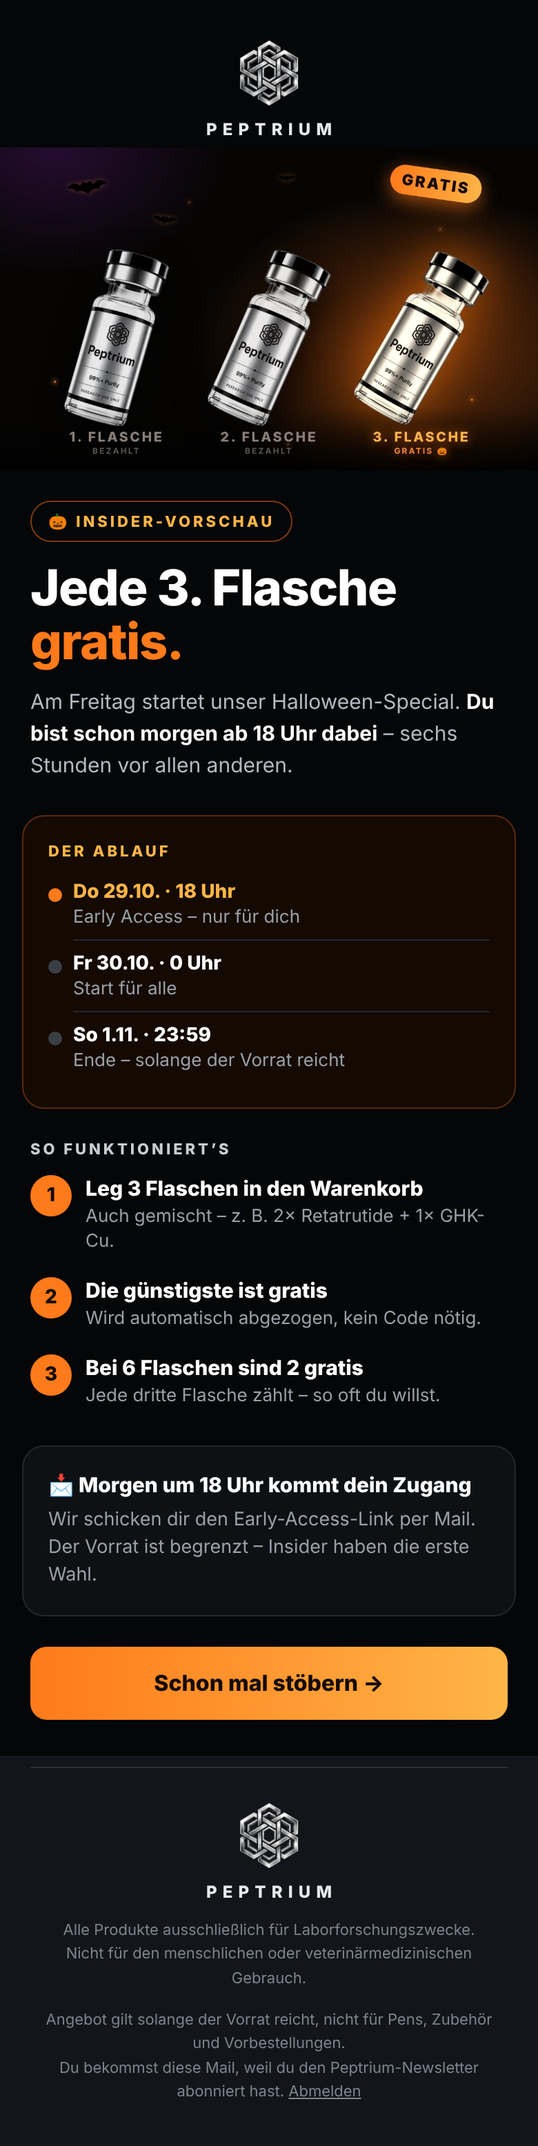
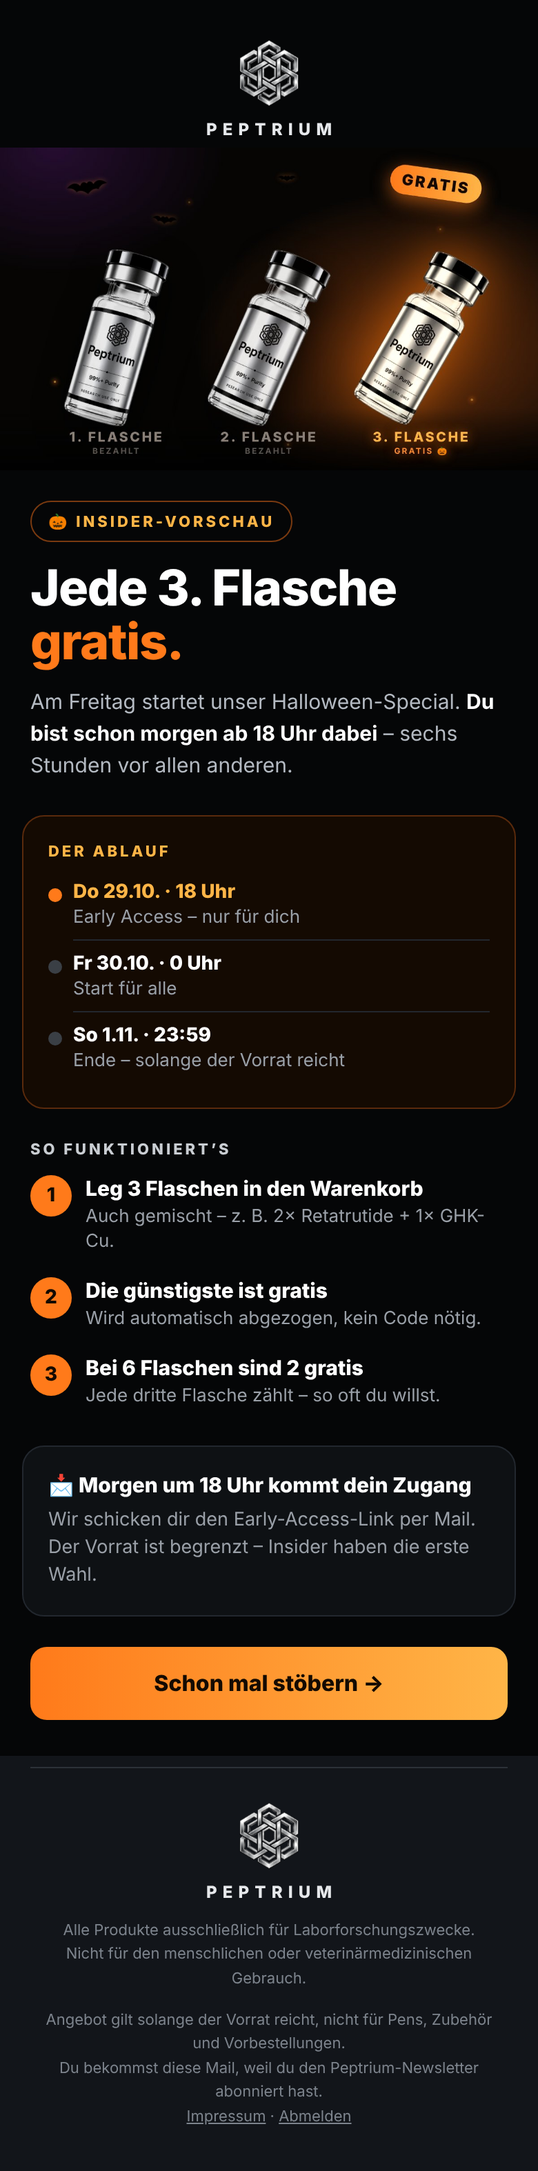
Halloween-Mails v2: keine Streichpreise, Heute 23:59, Vorkasse-Hinweis, Impressum, Betreffzeilen
Claude-Session: https://claude.ai/code/session_011YY7DBkbr5BcFGKyLoSbVN

Changed region(s): [[0.0615, 0.0935, 0.9538, 0.9974], [0.6462, 0.0623, 0.9231, 0.2182], [0.4308, 0.0, 0.5538, 0.0623]]

diff --git a/drafts/halloween-2026-10-22/mails/vorschau-letzte.html b/drafts/halloween-2026-10-22/mails/vorschau-letzte.html
@@ -1,1 +1,1 @@
-<!doctype html><html lang="de"><head><meta charset="utf-8"><meta name="viewport" content="width=device-width,initial-scale=1"></head><body style="margin:0;background:#050607;"><table role="presentation" width="100%" cellpadding="0" cellspacing="0" style="background:#050607;"><tr><td align="center" style="padding:0;"><table role="presentation" width="100%" cellpadding="0" cellspacing="0" style="max-width:600px;background:#050607;"><tr><td style="padding:26px 20px 6px;background:#050607;text-align:center;font-family:-apple-system,BlinkMacSystemFont,'Segoe UI',Inter,Helvetica,Arial,sans-serif;"><img src="https://peptrium.com/wp-content/uploads/2026/08/IMG_2644-cropped-300x300.png" width="54" height="54" alt="Peptrium" style="display:block;margin:0 auto;width:54px;height:54px;border:0;"><div style="font-size:12px;font-weight:800;letter-spacing:.34em;padding-left:.34em;color:#E6E8EB;margin-top:6px;">PEPTRIUM</div></td></tr><tr><td style="padding:0;line-height:0;background:#050607;"><a href="https://peptrium.com/alle-produkte/?utm_source=newsletter&utm_medium=email&utm_campaign=halloween-letzte" style="display:block;line-height:0;"><img src="nl-hw-hero.jpg" width="600" alt="Halloween bei Peptrium" style="display:block;width:100%;max-width:600px;height:auto;border:0;"></a></td></tr><tr><td style="padding:22px 22px 6px;background:#050607;text-align:left;font-family:-apple-system,BlinkMacSystemFont,'Segoe UI',Inter,Helvetica,Arial,sans-serif;"><span style="display:inline-block;font-size:11px;font-weight:800;letter-spacing:.18em;color:#FFB547;border:1px solid #7A3A10;border-radius:99px;padding:7px 12px;">🎃 LETZTE CHANCE</span><div style="font-size:36px;line-height:1.08;font-weight:800;color:#FFFFFF;letter-spacing:-.02em;margin-top:14px;">Nur noch bis<br><span style="color:#FF7A1A;">Sonntag, 23:59.</span></div><div style="font-size:15px;line-height:1.55;color:#B4BAC2;margin-top:12px;">Danach ist das Halloween-Special vorbei – und jede Flasche kostet wieder den normalen Preis.</div></td></tr><tr><td style="padding:18px 16px 4px;background:#050607;text-align:left;font-family:-apple-system,BlinkMacSystemFont,'Segoe UI',Inter,Helvetica,Arial,sans-serif;"><div style="background:#140A02;border:1px solid #5A2A0C;border-radius:16px;padding:18px 18px;"><table role="presentation" width="100%" cellpadding="0" cellspacing="0"><tr><td style="font-family:-apple-system,BlinkMacSystemFont,'Segoe UI',Inter,Helvetica,Arial,sans-serif;text-align:center;padding:4px 0;"><div style="font-size:11px;font-weight:800;letter-spacing:.18em;color:#FFB547;">ENDET IN</div><div style="font-size:40px;font-weight:800;color:#fff;margin-top:6px;letter-spacing:-.02em;">ca. 1 Tag</div><div style="font-size:13px;color:#9AA0A8;margin-top:4px;">So 1.11. um 23:59 Uhr · solange der Vorrat reicht</div></td></tr></table></div></td></tr><tr><td style="padding:18px 22px 6px;background:#050607;text-align:left;font-family:-apple-system,BlinkMacSystemFont,'Segoe UI',Inter,Helvetica,Arial,sans-serif;"><a href="https://peptrium.com/alle-produkte/?utm_source=newsletter&utm_medium=email&utm_campaign=halloween-letzte" style="display:block;background:#FF7A1A;background-image:linear-gradient(90deg,#FF7A1A,#FFB547);color:#140A02;text-align:center;text-decoration:none;font-weight:800;font-size:16px;line-height:1.2;padding:17px 12px;border-radius:12px;font-family:-apple-system,BlinkMacSystemFont,'Segoe UI',Inter,Helvetica,Arial,sans-serif;">Jetzt Flaschen wählen &rarr;</a></td></tr><tr><td style="padding:18px 16px 4px;background:#050607;text-align:left;font-family:-apple-system,BlinkMacSystemFont,'Segoe UI',Inter,Helvetica,Arial,sans-serif;"><div style="font-size:11px;font-weight:800;letter-spacing:.18em;color:#C9CDD2;margin-bottom:6px;">DIE BELIEBTESTEN</div><table role="presentation" width="100%" cellpadding="0" cellspacing="0"><tr><td style="padding:6px 0;"><table role="presentation" width="100%" cellpadding="0" cellspacing="0" style="border-collapse:separate;background:#0E1114;border:1px solid #22272E;border-radius:14px;overflow:hidden;"><tr><td width="92" style="width:92px;padding:0;line-height:0;"><a href="https://peptrium.com/produkt/retatrutide/?attribute_volumen=10mg&utm_source=newsletter&utm_medium=email&utm_campaign=halloween-letzte"><img src="https://peptrium.com/wp-content/uploads/sp-email/nl-p-reta.jpg" width="92" alt="" style="display:block;width:92px;height:92px;border:0;"></a></td><td style="padding:10px 12px;font-family:-apple-system,BlinkMacSystemFont,'Segoe UI',Inter,Helvetica,Arial,sans-serif;"><div style="font-size:15px;font-weight:800;color:#fff;">Retatrutide 10 mg</div><div style="font-size:13px;color:#9AA0A8;margin-top:3px;">3 Flaschen: <s style="white-space:nowrap;">224,70 €</s> <b style="color:#FFB547;font-size:15px;white-space:nowrap;">149,80 €</b></div></td><td width="44" style="width:44px;padding-right:12px;"><a href="https://peptrium.com/produkt/retatrutide/?attribute_volumen=10mg&utm_source=newsletter&utm_medium=email&utm_campaign=halloween-letzte" style="display:block;width:36px;height:36px;line-height:36px;border-radius:50%;background:#fff;color:#0D0F12;text-align:center;font-weight:800;text-decoration:none;font-size:18px;">&rarr;</a></td></tr></table></td></tr><tr><td style="padding:6px 0;"><table role="presentation" width="100%" cellpadding="0" cellspacing="0" style="border-collapse:separate;background:#0E1114;border:1px solid #22272E;border-radius:14px;overflow:hidden;"><tr><td width="92" style="width:92px;padding:0;line-height:0;"><a href="https://peptrium.com/produkt/retatrutide/?attribute_volumen=20mg&utm_source=newsletter&utm_medium=email&utm_campaign=halloween-letzte"><img src="https://peptrium.com/wp-content/uploads/sp-email/nl-p-reta20.jpg" width="92" alt="" style="display:block;width:92px;height:92px;border:0;"></a></td><td style="padding:10px 12px;font-family:-apple-system,BlinkMacSystemFont,'Segoe UI',Inter,Helvetica,Arial,sans-serif;"><div style="font-size:15px;font-weight:800;color:#fff;">Retatrutide 20 mg</div><div style="font-size:13px;color:#9AA0A8;margin-top:3px;">3 Flaschen: <s style="white-space:nowrap;">434,70 €</s> <b style="color:#FFB547;font-size:15px;white-space:nowrap;">289,80 €</b></div></td><td width="44" style="width:44px;padding-right:12px;"><a href="https://peptrium.com/produkt/retatrutide/?attribute_volumen=20mg&utm_source=newsletter&utm_medium=email&utm_campaign=halloween-letzte" style="display:block;width:36px;height:36px;line-height:36px;border-radius:50%;background:#fff;color:#0D0F12;text-align:center;font-weight:800;text-decoration:none;font-size:18px;">&rarr;</a></td></tr></table></td></tr><tr><td style="padding:6px 0;"><table role="presentation" width="100%" cellpadding="0" cellspacing="0" style="border-collapse:separate;background:#0E1114;border:1px solid #22272E;border-radius:14px;overflow:hidden;"><tr><td width="92" style="width:92px;padding:0;line-height:0;"><a href="https://peptrium.com/produkt/ghk-cu/?attribute_volumen=100mg&utm_source=newsletter&utm_medium=email&utm_campaign=halloween-letzte"><img src="https://peptrium.com/wp-content/uploads/sp-email/nl-p-ghk100.jpg" width="92" alt="" style="display:block;width:92px;height:92px;border:0;"></a></td><td style="padding:10px 12px;font-family:-apple-system,BlinkMacSystemFont,'Segoe UI',Inter,Helvetica,Arial,sans-serif;"><div style="font-size:15px;font-weight:800;color:#fff;">GHK-Cu 100 mg</div><div style="font-size:13px;color:#9AA0A8;margin-top:3px;">3 Flaschen: <s style="white-space:nowrap;">224,70 €</s> <b style="color:#FFB547;font-size:15px;white-space:nowrap;">149,80 €</b></div></td><td width="44" style="width:44px;padding-right:12px;"><a href="https://peptrium.com/produkt/ghk-cu/?attribute_volumen=100mg&utm_source=newsletter&utm_medium=email&utm_campaign=halloween-letzte" style="display:block;width:36px;height:36px;line-height:36px;border-radius:50%;background:#fff;color:#0D0F12;text-align:center;font-weight:800;text-decoration:none;font-size:18px;">&rarr;</a></td></tr></table></td></tr></table></td></tr><tr><td style="padding:14px 22px 4px;background:#050607;text-align:left;font-family:-apple-system,BlinkMacSystemFont,'Segoe UI',Inter,Helvetica,Arial,sans-serif;"><div style="font-size:14px;color:#9AA0A8;line-height:1.55;">Jede 3. Flasche ist gratis – die günstigste im Warenkorb, auch gemischt. Kein Code nötig.</div></td></tr><tr><td style="padding:18px 22px 26px;background:#050607;text-align:left;font-family:-apple-system,BlinkMacSystemFont,'Segoe UI',Inter,Helvetica,Arial,sans-serif;"><a href="https://peptrium.com/alle-produkte/?utm_source=newsletter&utm_medium=email&utm_campaign=halloween-letzte" style="display:block;background:#FF7A1A;background-image:linear-gradient(90deg,#FF7A1A,#FFB547);color:#140A02;text-align:center;text-decoration:none;font-weight:800;font-size:16px;line-height:1.2;padding:17px 12px;border-radius:12px;font-family:-apple-system,BlinkMacSystemFont,'Segoe UI',Inter,Helvetica,Arial,sans-serif;">Zum Shop &rarr;</a></td></tr><tr><td style="padding:8px 22px 30px;background:#12151A;text-align:center;font-family:-apple-system,BlinkMacSystemFont,'Segoe UI',Inter,Helvetica,Arial,sans-serif;"><div style="height:1px;background:#2C3138;margin:0 0 22px;"></div><img src="https://peptrium.com/wp-content/uploads/2026/08/IMG_2644-cropped-300x300.png" width="54" height="54" alt="Peptrium" style="display:block;margin:0 auto;width:54px;height:54px;border:0;"><div style="font-size:12px;font-weight:800;letter-spacing:.34em;padding-left:.34em;color:#E6E8EB;margin-top:6px;">PEPTRIUM</div><div style="font-size:11px;color:#7D848D;margin-top:12px;line-height:1.6;">Alle Produkte ausschließlich für Laborforschungszwecke.<br>Nicht für den menschlichen oder veterinärmedizinischen Gebrauch.</div><div style="font-size:11px;color:#7D848D;margin-top:12px;line-height:1.6;">Angebot gilt solange der Vorrat reicht, nicht für Pens, Zubehör und Vorbestellungen.<br>Du bekommst diese Mail, weil du den Peptrium-Newsletter abonniert hast. <a href="#" style="color:#7D848D;">Abmelden</a></div></td></tr></table></td></tr></table></body></html>
+<!doctype html><html lang="de"><head><meta charset="utf-8"><meta name="viewport" content="width=device-width,initial-scale=1"></head><body style="margin:0;background:#050607;"><table role="presentation" width="100%" cellpadding="0" cellspacing="0" style="background:#050607;"><tr><td align="center" style="padding:0;"><table role="presentation" width="100%" cellpadding="0" cellspacing="0" style="max-width:600px;background:#050607;"><tr><td style="padding:26px 20px 6px;background:#050607;text-align:center;font-family:-apple-system,BlinkMacSystemFont,'Segoe UI',Inter,Helvetica,Arial,sans-serif;"><img src="https://peptrium.com/wp-content/uploads/2026/08/IMG_2644-cropped-300x300.png" width="54" height="54" alt="Peptrium" style="display:block;margin:0 auto;width:54px;height:54px;border:0;"><div style="font-size:12px;font-weight:800;letter-spacing:.34em;padding-left:.34em;color:#E6E8EB;margin-top:6px;">PEPTRIUM</div></td></tr><tr><td style="padding:0;line-height:0;background:#050607;"><a href="https://peptrium.com/alle-produkte/?utm_source=newsletter&utm_medium=email&utm_campaign=halloween-letzte" style="display:block;line-height:0;"><img src="nl-hw-hero.jpg" width="600" alt="Halloween bei Peptrium" style="display:block;width:100%;max-width:600px;height:auto;border:0;"></a></td></tr><tr><td style="padding:22px 22px 6px;background:#050607;text-align:left;font-family:-apple-system,BlinkMacSystemFont,'Segoe UI',Inter,Helvetica,Arial,sans-serif;"><span style="display:inline-block;font-size:11px;font-weight:800;letter-spacing:.18em;color:#FFB547;border:1px solid #7A3A10;border-radius:99px;padding:7px 12px;">🎃 LETZTE CHANCE</span><div style="font-size:36px;line-height:1.08;font-weight:800;color:#FFFFFF;letter-spacing:-.02em;margin-top:14px;">Heute um 23:59<br><span style="color:#FF7A1A;">ist Schluss.</span></div><div style="font-size:15px;line-height:1.55;color:#B4BAC2;margin-top:12px;">Danach ist das Halloween-Special vorbei – und jede Flasche kostet wieder den normalen Preis.</div></td></tr><tr><td style="padding:18px 16px 4px;background:#050607;text-align:left;font-family:-apple-system,BlinkMacSystemFont,'Segoe UI',Inter,Helvetica,Arial,sans-serif;"><div style="background:#140A02;border:1px solid #5A2A0C;border-radius:16px;padding:18px 18px;"><table role="presentation" width="100%" cellpadding="0" cellspacing="0"><tr><td style="font-family:-apple-system,BlinkMacSystemFont,'Segoe UI',Inter,Helvetica,Arial,sans-serif;text-align:center;padding:4px 0;"><div style="font-size:11px;font-weight:800;letter-spacing:.18em;color:#FFB547;">ENDET HEUTE</div><div style="font-size:40px;font-weight:800;color:#fff;margin-top:6px;letter-spacing:-.02em;">23:59 Uhr</div><div style="font-size:13px;color:#9AA0A8;margin-top:4px;">Sonntag, 1.11. · solange der Vorrat reicht</div></td></tr></table></div></td></tr><tr><td style="padding:18px 22px 6px;background:#050607;text-align:left;font-family:-apple-system,BlinkMacSystemFont,'Segoe UI',Inter,Helvetica,Arial,sans-serif;"><a href="https://peptrium.com/alle-produkte/?utm_source=newsletter&utm_medium=email&utm_campaign=halloween-letzte" style="display:block;background:#FF7A1A;background-image:linear-gradient(90deg,#FF7A1A,#FFB547);color:#140A02;text-align:center;text-decoration:none;font-weight:800;font-size:16px;line-height:1.2;padding:17px 12px;border-radius:12px;font-family:-apple-system,BlinkMacSystemFont,'Segoe UI',Inter,Helvetica,Arial,sans-serif;">Jetzt Flaschen wählen &rarr;</a></td></tr><tr><td style="padding:18px 16px 4px;background:#050607;text-align:left;font-family:-apple-system,BlinkMacSystemFont,'Segoe UI',Inter,Helvetica,Arial,sans-serif;"><div style="font-size:11px;font-weight:800;letter-spacing:.18em;color:#C9CDD2;margin-bottom:6px;">DIE BELIEBTESTEN</div><table role="presentation" width="100%" cellpadding="0" cellspacing="0"><tr><td style="padding:6px 0;"><table role="presentation" width="100%" cellpadding="0" cellspacing="0" style="border-collapse:separate;background:#0E1114;border:1px solid #22272E;border-radius:14px;overflow:hidden;"><tr><td width="92" style="width:92px;padding:0;line-height:0;"><a href="https://peptrium.com/produkt/retatrutide/?attribute_volumen=10mg&utm_source=newsletter&utm_medium=email&utm_campaign=halloween-letzte"><img src="https://peptrium.com/wp-content/uploads/sp-email/nl-p-reta.jpg" width="92" alt="" style="display:block;width:92px;height:92px;border:0;"></a></td><td style="padding:10px 12px;font-family:-apple-system,BlinkMacSystemFont,'Segoe UI',Inter,Helvetica,Arial,sans-serif;"><div style="font-size:15px;font-weight:800;color:#fff;">Retatrutide 10 mg</div><div style="font-size:13px;color:#9AA0A8;margin-top:3px;">3 Flaschen – du zahlst nur 2</div><div style="font-size:16px;font-weight:800;color:#FFB547;margin-top:2px;white-space:nowrap;">149,80 €</div></td><td width="44" style="width:44px;padding-right:12px;"><a href="https://peptrium.com/produkt/retatrutide/?attribute_volumen=10mg&utm_source=newsletter&utm_medium=email&utm_campaign=halloween-letzte" style="display:block;width:36px;height:36px;line-height:36px;border-radius:50%;background:#fff;color:#0D0F12;text-align:center;font-weight:800;text-decoration:none;font-size:18px;">&rarr;</a></td></tr></table></td></tr><tr><td style="padding:6px 0;"><table role="presentation" width="100%" cellpadding="0" cellspacing="0" style="border-collapse:separate;background:#0E1114;border:1px solid #22272E;border-radius:14px;overflow:hidden;"><tr><td width="92" style="width:92px;padding:0;line-height:0;"><a href="https://peptrium.com/produkt/retatrutide/?attribute_volumen=20mg&utm_source=newsletter&utm_medium=email&utm_campaign=halloween-letzte"><img src="https://peptrium.com/wp-content/uploads/sp-email/nl-p-reta20.jpg" width="92" alt="" style="display:block;width:92px;height:92px;border:0;"></a></td><td style="padding:10px 12px;font-family:-apple-system,BlinkMacSystemFont,'Segoe UI',Inter,Helvetica,Arial,sans-serif;"><div style="font-size:15px;font-weight:800;color:#fff;">Retatrutide 20 mg</div><div style="font-size:13px;color:#9AA0A8;margin-top:3px;">3 Flaschen – du zahlst nur 2</div><div style="font-size:16px;font-weight:800;color:#FFB547;margin-top:2px;white-space:nowrap;">289,80 €</div></td><td width="44" style="width:44px;padding-right:12px;"><a href="https://peptrium.com/produkt/retatrutide/?attribute_volumen=20mg&utm_source=newsletter&utm_medium=email&utm_campaign=halloween-letzte" style="display:block;width:36px;height:36px;line-height:36px;border-radius:50%;background:#fff;color:#0D0F12;text-align:center;font-weight:800;text-decoration:none;font-size:18px;">&rarr;</a></td></tr></table></td></tr><tr><td style="padding:6px 0;"><table role="presentation" width="100%" cellpadding="0" cellspacing="0" style="border-collapse:separate;background:#0E1114;border:1px solid #22272E;border-radius:14px;overflow:hidden;"><tr><td width="92" style="width:92px;padding:0;line-height:0;"><a href="https://peptrium.com/produkt/ghk-cu/?attribute_volumen=100mg&utm_source=newsletter&utm_medium=email&utm_campaign=halloween-letzte"><img src="https://peptrium.com/wp-content/uploads/sp-email/nl-p-ghk100.jpg" width="92" alt="" style="display:block;width:92px;height:92px;border:0;"></a></td><td style="padding:10px 12px;font-family:-apple-system,BlinkMacSystemFont,'Segoe UI',Inter,Helvetica,Arial,sans-serif;"><div style="font-size:15px;font-weight:800;color:#fff;">GHK-Cu 100 mg</div><div style="font-size:13px;color:#9AA0A8;margin-top:3px;">3 Flaschen – du zahlst nur 2</div><div style="font-size:16px;font-weight:800;color:#FFB547;margin-top:2px;white-space:nowrap;">149,80 €</div></td><td width="44" style="width:44px;padding-right:12px;"><a href="https://peptrium.com/produkt/ghk-cu/?attribute_volumen=100mg&utm_source=newsletter&utm_medium=email&utm_campaign=halloween-letzte" style="display:block;width:36px;height:36px;line-height:36px;border-radius:50%;background:#fff;color:#0D0F12;text-align:center;font-weight:800;text-decoration:none;font-size:18px;">&rarr;</a></td></tr></table></td></tr></table></td></tr><tr><td style="padding:14px 22px 4px;background:#050607;text-align:left;font-family:-apple-system,BlinkMacSystemFont,'Segoe UI',Inter,Helvetica,Arial,sans-serif;"><div style="font-size:14px;color:#9AA0A8;line-height:1.55;">Jede 3. Flasche ist gratis – die günstigste im Warenkorb, auch gemischt. Kein Code nötig.</div></td></tr><tr><td style="padding:12px 16px 4px;background:#050607;text-align:left;font-family:-apple-system,BlinkMacSystemFont,'Segoe UI',Inter,Helvetica,Arial,sans-serif;"><div style="background:#0E1114;border:1px solid #22272E;border-radius:16px;padding:18px 18px;"><div style="font-size:14px;color:#E6E8EB;line-height:1.5;">💳 <b>Per Vorkasse?</b> <span style="color:#9AA0A8;">Kein Stress – es zählt deine Bestellung, nicht der Zahlungseingang. Der Aktionspreis bleibt dir.</span></div></div></td></tr><tr><td style="padding:18px 22px 26px;background:#050607;text-align:left;font-family:-apple-system,BlinkMacSystemFont,'Segoe UI',Inter,Helvetica,Arial,sans-serif;"><a href="https://peptrium.com/alle-produkte/?utm_source=newsletter&utm_medium=email&utm_campaign=halloween-letzte" style="display:block;background:#FF7A1A;background-image:linear-gradient(90deg,#FF7A1A,#FFB547);color:#140A02;text-align:center;text-decoration:none;font-weight:800;font-size:16px;line-height:1.2;padding:17px 12px;border-radius:12px;font-family:-apple-system,BlinkMacSystemFont,'Segoe UI',Inter,Helvetica,Arial,sans-serif;">Zum Shop &rarr;</a></td></tr><tr><td style="padding:8px 22px 30px;background:#12151A;text-align:center;font-family:-apple-system,BlinkMacSystemFont,'Segoe UI',Inter,Helvetica,Arial,sans-serif;"><div style="height:1px;background:#2C3138;margin:0 0 22px;"></div><img src="https://peptrium.com/wp-content/uploads/2026/08/IMG_2644-cropped-300x300.png" width="54" height="54" alt="Peptrium" style="display:block;margin:0 auto;width:54px;height:54px;border:0;"><div style="font-size:12px;font-weight:800;letter-spacing:.34em;padding-left:.34em;color:#E6E8EB;margin-top:6px;">PEPTRIUM</div><div style="font-size:11px;color:#7D848D;margin-top:12px;line-height:1.6;">Alle Produkte ausschließlich für Laborforschungszwecke.<br>Nicht für den menschlichen oder veterinärmedizinischen Gebrauch.</div><div style="font-size:11px;color:#7D848D;margin-top:12px;line-height:1.6;">Angebot gilt solange der Vorrat reicht, nicht für Pens, Zubehör und Vorbestellungen.<br>Du bekommst diese Mail, weil du den Peptrium-Newsletter abonniert hast. <br><a href="https://peptrium.com/impressum/" style="color:#7D848D;">Impressum</a> · <a href="#" style="color:#7D848D;">Abmelden</a></div></td></tr></table></td></tr></table></body></html>

diff --git a/drafts/halloween-2026-10-22/mails/vorschau-teaser.html b/drafts/halloween-2026-10-22/mails/vorschau-teaser.html
@@ -1,1 +1,1 @@
-<!doctype html><html lang="de"><head><meta charset="utf-8"><meta name="viewport" content="width=device-width,initial-scale=1"></head><body style="margin:0;background:#050607;"><table role="presentation" width="100%" cellpadding="0" cellspacing="0" style="background:#050607;"><tr><td align="center" style="padding:0;"><table role="presentation" width="100%" cellpadding="0" cellspacing="0" style="max-width:600px;background:#050607;"><tr><td style="padding:26px 20px 6px;background:#050607;text-align:center;font-family:-apple-system,BlinkMacSystemFont,'Segoe UI',Inter,Helvetica,Arial,sans-serif;"><img src="https://peptrium.com/wp-content/uploads/2026/08/IMG_2644-cropped-300x300.png" width="54" height="54" alt="Peptrium" style="display:block;margin:0 auto;width:54px;height:54px;border:0;"><div style="font-size:12px;font-weight:800;letter-spacing:.34em;padding-left:.34em;color:#E6E8EB;margin-top:6px;">PEPTRIUM</div></td></tr><tr><td style="padding:0;line-height:0;background:#050607;"><a href="https://peptrium.com/alle-produkte/?utm_source=newsletter&utm_medium=email&utm_campaign=halloween-teaser" style="display:block;line-height:0;"><img src="nl-hw-hero.jpg" width="600" alt="Halloween bei Peptrium" style="display:block;width:100%;max-width:600px;height:auto;border:0;"></a></td></tr><tr><td style="padding:22px 22px 6px;background:#050607;text-align:left;font-family:-apple-system,BlinkMacSystemFont,'Segoe UI',Inter,Helvetica,Arial,sans-serif;"><span style="display:inline-block;font-size:11px;font-weight:800;letter-spacing:.18em;color:#FFB547;border:1px solid #7A3A10;border-radius:99px;padding:7px 12px;">🎃 INSIDER-VORSCHAU</span><div style="font-size:36px;line-height:1.08;font-weight:800;color:#FFFFFF;letter-spacing:-.02em;margin-top:14px;">Jede 3. Flasche<br><span style="color:#FF7A1A;">gratis.</span></div><div style="font-size:15px;line-height:1.55;color:#B4BAC2;margin-top:12px;">Am Freitag startet unser Halloween-Special. <b style="color:#fff;">Du bist schon morgen ab 18 Uhr dabei</b> – sechs Stunden vor allen anderen.</div></td></tr><tr><td style="padding:18px 16px 4px;background:#050607;text-align:left;font-family:-apple-system,BlinkMacSystemFont,'Segoe UI',Inter,Helvetica,Arial,sans-serif;"><div style="background:#140A02;border:1px solid #5A2A0C;border-radius:16px;padding:18px 18px;"><div style="font-size:11px;font-weight:800;letter-spacing:.18em;color:#FFB547;margin-bottom:6px;">DER ABLAUF</div><table role="presentation" width="100%" cellpadding="0" cellspacing="0"><tr><td width="18" valign="top" style="width:18px;padding:10px 0;"><div style="width:10px;height:10px;border-radius:50%;margin-top:4px;background:#FF7A1A;"></div></td><td style="padding:8px 0;font-family:-apple-system,BlinkMacSystemFont,'Segoe UI',Inter,Helvetica,Arial,sans-serif;border-bottom:1px solid #22272E;"><div style="font-size:14px;font-weight:800;color:#FFB547;">Do 29.10. · 18 Uhr</div><div style="font-size:13px;color:#9AA0A8;margin-top:2px;">Early Access – nur für dich</div></td></tr><tr><td width="18" valign="top" style="width:18px;padding:10px 0;"><div style="width:10px;height:10px;border-radius:50%;margin-top:4px;background:#3A3F45;"></div></td><td style="padding:8px 0;font-family:-apple-system,BlinkMacSystemFont,'Segoe UI',Inter,Helvetica,Arial,sans-serif;border-bottom:1px solid #22272E;"><div style="font-size:14px;font-weight:800;color:#fff;">Fr 30.10. · 0 Uhr</div><div style="font-size:13px;color:#9AA0A8;margin-top:2px;">Start für alle</div></td></tr><tr><td width="18" valign="top" style="width:18px;padding:10px 0;"><div style="width:10px;height:10px;border-radius:50%;margin-top:4px;background:#3A3F45;"></div></td><td style="padding:8px 0;font-family:-apple-system,BlinkMacSystemFont,'Segoe UI',Inter,Helvetica,Arial,sans-serif;"><div style="font-size:14px;font-weight:800;color:#fff;">So 1.11. · 23:59</div><div style="font-size:13px;color:#9AA0A8;margin-top:2px;">Ende – solange der Vorrat reicht</div></td></tr></table></div></td></tr><tr><td style="padding:18px 22px 4px;background:#050607;text-align:left;font-family:-apple-system,BlinkMacSystemFont,'Segoe UI',Inter,Helvetica,Arial,sans-serif;"><div style="font-size:11px;font-weight:800;letter-spacing:.18em;color:#C9CDD2;margin-bottom:4px;">SO FUNKTIONIERT’S</div><table role="presentation" width="100%" cellpadding="0" cellspacing="0"><tr><td width="40" valign="top" style="width:40px;padding:8px 0;"><div style="width:30px;height:30px;line-height:30px;border-radius:50%;background:#FF7A1A;color:#140A02;text-align:center;font-weight:800;font-size:14px;">1</div></td><td style="padding:8px 0;font-family:-apple-system,BlinkMacSystemFont,'Segoe UI',Inter,Helvetica,Arial,sans-serif;"><div style="font-size:15px;font-weight:800;color:#fff;">Leg 3 Flaschen in den Warenkorb</div><div style="font-size:13px;color:#9AA0A8;margin-top:2px;line-height:1.45;">Auch gemischt – z. B. 2× Retatrutide + 1× GHK-Cu.</div></td></tr><tr><td width="40" valign="top" style="width:40px;padding:8px 0;"><div style="width:30px;height:30px;line-height:30px;border-radius:50%;background:#FF7A1A;color:#140A02;text-align:center;font-weight:800;font-size:14px;">2</div></td><td style="padding:8px 0;font-family:-apple-system,BlinkMacSystemFont,'Segoe UI',Inter,Helvetica,Arial,sans-serif;"><div style="font-size:15px;font-weight:800;color:#fff;">Die günstigste ist gratis</div><div style="font-size:13px;color:#9AA0A8;margin-top:2px;line-height:1.45;">Wird automatisch abgezogen, kein Code nötig.</div></td></tr><tr><td width="40" valign="top" style="width:40px;padding:8px 0;"><div style="width:30px;height:30px;line-height:30px;border-radius:50%;background:#FF7A1A;color:#140A02;text-align:center;font-weight:800;font-size:14px;">3</div></td><td style="padding:8px 0;font-family:-apple-system,BlinkMacSystemFont,'Segoe UI',Inter,Helvetica,Arial,sans-serif;"><div style="font-size:15px;font-weight:800;color:#fff;">Bei 6 Flaschen sind 2 gratis</div><div style="font-size:13px;color:#9AA0A8;margin-top:2px;line-height:1.45;">Jede dritte Flasche zählt – so oft du willst.</div></td></tr></table></td></tr><tr><td style="padding:14px 16px 4px;background:#050607;text-align:left;font-family:-apple-system,BlinkMacSystemFont,'Segoe UI',Inter,Helvetica,Arial,sans-serif;"><div style="background:#0E1114;border:1px solid #22272E;border-radius:16px;padding:18px 18px;"><div style="font-size:15px;font-weight:800;color:#fff;">📩 Morgen um 18 Uhr kommt dein Zugang</div><div style="font-size:13.5px;color:#9AA0A8;margin-top:6px;line-height:1.5;">Wir schicken dir den Early-Access-Link per Mail. Der Vorrat ist begrenzt – Insider haben die erste Wahl.</div></div></td></tr><tr><td style="padding:18px 22px 26px;background:#050607;text-align:left;font-family:-apple-system,BlinkMacSystemFont,'Segoe UI',Inter,Helvetica,Arial,sans-serif;"><a href="https://peptrium.com/alle-produkte/?utm_source=newsletter&utm_medium=email&utm_campaign=halloween-teaser" style="display:block;background:#FF7A1A;background-image:linear-gradient(90deg,#FF7A1A,#FFB547);color:#140A02;text-align:center;text-decoration:none;font-weight:800;font-size:16px;line-height:1.2;padding:17px 12px;border-radius:12px;font-family:-apple-system,BlinkMacSystemFont,'Segoe UI',Inter,Helvetica,Arial,sans-serif;">Schon mal stöbern &rarr;</a></td></tr><tr><td style="padding:8px 22px 30px;background:#12151A;text-align:center;font-family:-apple-system,BlinkMacSystemFont,'Segoe UI',Inter,Helvetica,Arial,sans-serif;"><div style="height:1px;background:#2C3138;margin:0 0 22px;"></div><img src="https://peptrium.com/wp-content/uploads/2026/08/IMG_2644-cropped-300x300.png" width="54" height="54" alt="Peptrium" style="display:block;margin:0 auto;width:54px;height:54px;border:0;"><div style="font-size:12px;font-weight:800;letter-spacing:.34em;padding-left:.34em;color:#E6E8EB;margin-top:6px;">PEPTRIUM</div><div style="font-size:11px;color:#7D848D;margin-top:12px;line-height:1.6;">Alle Produkte ausschließlich für Laborforschungszwecke.<br>Nicht für den menschlichen oder veterinärmedizinischen Gebrauch.</div><div style="font-size:11px;color:#7D848D;margin-top:12px;line-height:1.6;">Angebot gilt solange der Vorrat reicht, nicht für Pens, Zubehör und Vorbestellungen.<br>Du bekommst diese Mail, weil du den Peptrium-Newsletter abonniert hast. <a href="#" style="color:#7D848D;">Abmelden</a></div></td></tr></table></td></tr></table></body></html>
+<!doctype html><html lang="de"><head><meta charset="utf-8"><meta name="viewport" content="width=device-width,initial-scale=1"></head><body style="margin:0;background:#050607;"><table role="presentation" width="100%" cellpadding="0" cellspacing="0" style="background:#050607;"><tr><td align="center" style="padding:0;"><table role="presentation" width="100%" cellpadding="0" cellspacing="0" style="max-width:600px;background:#050607;"><tr><td style="padding:26px 20px 6px;background:#050607;text-align:center;font-family:-apple-system,BlinkMacSystemFont,'Segoe UI',Inter,Helvetica,Arial,sans-serif;"><img src="https://peptrium.com/wp-content/uploads/2026/08/IMG_2644-cropped-300x300.png" width="54" height="54" alt="Peptrium" style="display:block;margin:0 auto;width:54px;height:54px;border:0;"><div style="font-size:12px;font-weight:800;letter-spacing:.34em;padding-left:.34em;color:#E6E8EB;margin-top:6px;">PEPTRIUM</div></td></tr><tr><td style="padding:0;line-height:0;background:#050607;"><a href="https://peptrium.com/alle-produkte/?utm_source=newsletter&utm_medium=email&utm_campaign=halloween-teaser" style="display:block;line-height:0;"><img src="nl-hw-hero.jpg" width="600" alt="Halloween bei Peptrium" style="display:block;width:100%;max-width:600px;height:auto;border:0;"></a></td></tr><tr><td style="padding:22px 22px 6px;background:#050607;text-align:left;font-family:-apple-system,BlinkMacSystemFont,'Segoe UI',Inter,Helvetica,Arial,sans-serif;"><span style="display:inline-block;font-size:11px;font-weight:800;letter-spacing:.18em;color:#FFB547;border:1px solid #7A3A10;border-radius:99px;padding:7px 12px;">🎃 INSIDER-VORSCHAU</span><div style="font-size:36px;line-height:1.08;font-weight:800;color:#FFFFFF;letter-spacing:-.02em;margin-top:14px;">Jede 3. Flasche<br><span style="color:#FF7A1A;">gratis.</span></div><div style="font-size:15px;line-height:1.55;color:#B4BAC2;margin-top:12px;">Am Freitag startet unser Halloween-Special. <b style="color:#fff;">Du bist schon morgen ab 18 Uhr dabei</b> – sechs Stunden vor allen anderen.</div></td></tr><tr><td style="padding:18px 16px 4px;background:#050607;text-align:left;font-family:-apple-system,BlinkMacSystemFont,'Segoe UI',Inter,Helvetica,Arial,sans-serif;"><div style="background:#140A02;border:1px solid #5A2A0C;border-radius:16px;padding:18px 18px;"><div style="font-size:11px;font-weight:800;letter-spacing:.18em;color:#FFB547;margin-bottom:6px;">DER ABLAUF</div><table role="presentation" width="100%" cellpadding="0" cellspacing="0"><tr><td width="18" valign="top" style="width:18px;padding:10px 0;"><div style="width:10px;height:10px;border-radius:50%;margin-top:4px;background:#FF7A1A;"></div></td><td style="padding:8px 0;font-family:-apple-system,BlinkMacSystemFont,'Segoe UI',Inter,Helvetica,Arial,sans-serif;border-bottom:1px solid #22272E;"><div style="font-size:14px;font-weight:800;color:#FFB547;">Do 29.10. · 18 Uhr</div><div style="font-size:13px;color:#9AA0A8;margin-top:2px;">Early Access – nur für dich</div></td></tr><tr><td width="18" valign="top" style="width:18px;padding:10px 0;"><div style="width:10px;height:10px;border-radius:50%;margin-top:4px;background:#3A3F45;"></div></td><td style="padding:8px 0;font-family:-apple-system,BlinkMacSystemFont,'Segoe UI',Inter,Helvetica,Arial,sans-serif;border-bottom:1px solid #22272E;"><div style="font-size:14px;font-weight:800;color:#fff;">Fr 30.10. · 0 Uhr</div><div style="font-size:13px;color:#9AA0A8;margin-top:2px;">Start für alle</div></td></tr><tr><td width="18" valign="top" style="width:18px;padding:10px 0;"><div style="width:10px;height:10px;border-radius:50%;margin-top:4px;background:#3A3F45;"></div></td><td style="padding:8px 0;font-family:-apple-system,BlinkMacSystemFont,'Segoe UI',Inter,Helvetica,Arial,sans-serif;"><div style="font-size:14px;font-weight:800;color:#fff;">So 1.11. · 23:59</div><div style="font-size:13px;color:#9AA0A8;margin-top:2px;">Ende – solange der Vorrat reicht</div></td></tr></table></div></td></tr><tr><td style="padding:18px 22px 4px;background:#050607;text-align:left;font-family:-apple-system,BlinkMacSystemFont,'Segoe UI',Inter,Helvetica,Arial,sans-serif;"><div style="font-size:11px;font-weight:800;letter-spacing:.18em;color:#C9CDD2;margin-bottom:4px;">SO FUNKTIONIERT’S</div><table role="presentation" width="100%" cellpadding="0" cellspacing="0"><tr><td width="40" valign="top" style="width:40px;padding:8px 0;"><div style="width:30px;height:30px;line-height:30px;border-radius:50%;background:#FF7A1A;color:#140A02;text-align:center;font-weight:800;font-size:14px;">1</div></td><td style="padding:8px 0;font-family:-apple-system,BlinkMacSystemFont,'Segoe UI',Inter,Helvetica,Arial,sans-serif;"><div style="font-size:15px;font-weight:800;color:#fff;">Leg 3 Flaschen in den Warenkorb</div><div style="font-size:13px;color:#9AA0A8;margin-top:2px;line-height:1.45;">Auch gemischt – z. B. 2× Retatrutide + 1× GHK-Cu.</div></td></tr><tr><td width="40" valign="top" style="width:40px;padding:8px 0;"><div style="width:30px;height:30px;line-height:30px;border-radius:50%;background:#FF7A1A;color:#140A02;text-align:center;font-weight:800;font-size:14px;">2</div></td><td style="padding:8px 0;font-family:-apple-system,BlinkMacSystemFont,'Segoe UI',Inter,Helvetica,Arial,sans-serif;"><div style="font-size:15px;font-weight:800;color:#fff;">Die günstigste ist gratis</div><div style="font-size:13px;color:#9AA0A8;margin-top:2px;line-height:1.45;">Wird automatisch abgezogen, kein Code nötig.</div></td></tr><tr><td width="40" valign="top" style="width:40px;padding:8px 0;"><div style="width:30px;height:30px;line-height:30px;border-radius:50%;background:#FF7A1A;color:#140A02;text-align:center;font-weight:800;font-size:14px;">3</div></td><td style="padding:8px 0;font-family:-apple-system,BlinkMacSystemFont,'Segoe UI',Inter,Helvetica,Arial,sans-serif;"><div style="font-size:15px;font-weight:800;color:#fff;">Bei 6 Flaschen sind 2 gratis</div><div style="font-size:13px;color:#9AA0A8;margin-top:2px;line-height:1.45;">Jede dritte Flasche zählt – so oft du willst.</div></td></tr></table></td></tr><tr><td style="padding:14px 16px 4px;background:#050607;text-align:left;font-family:-apple-system,BlinkMacSystemFont,'Segoe UI',Inter,Helvetica,Arial,sans-serif;"><div style="background:#0E1114;border:1px solid #22272E;border-radius:16px;padding:18px 18px;"><div style="font-size:15px;font-weight:800;color:#fff;">📩 Morgen um 18 Uhr kommt dein Zugang</div><div style="font-size:13.5px;color:#9AA0A8;margin-top:6px;line-height:1.5;">Wir schicken dir den Early-Access-Link per Mail. Der Vorrat ist begrenzt – Insider haben die erste Wahl.</div></div></td></tr><tr><td style="padding:18px 22px 26px;background:#050607;text-align:left;font-family:-apple-system,BlinkMacSystemFont,'Segoe UI',Inter,Helvetica,Arial,sans-serif;"><a href="https://peptrium.com/alle-produkte/?utm_source=newsletter&utm_medium=email&utm_campaign=halloween-teaser" style="display:block;background:#FF7A1A;background-image:linear-gradient(90deg,#FF7A1A,#FFB547);color:#140A02;text-align:center;text-decoration:none;font-weight:800;font-size:16px;line-height:1.2;padding:17px 12px;border-radius:12px;font-family:-apple-system,BlinkMacSystemFont,'Segoe UI',Inter,Helvetica,Arial,sans-serif;">Schon mal stöbern &rarr;</a></td></tr><tr><td style="padding:8px 22px 30px;background:#12151A;text-align:center;font-family:-apple-system,BlinkMacSystemFont,'Segoe UI',Inter,Helvetica,Arial,sans-serif;"><div style="height:1px;background:#2C3138;margin:0 0 22px;"></div><img src="https://peptrium.com/wp-content/uploads/2026/08/IMG_2644-cropped-300x300.png" width="54" height="54" alt="Peptrium" style="display:block;margin:0 auto;width:54px;height:54px;border:0;"><div style="font-size:12px;font-weight:800;letter-spacing:.34em;padding-left:.34em;color:#E6E8EB;margin-top:6px;">PEPTRIUM</div><div style="font-size:11px;color:#7D848D;margin-top:12px;line-height:1.6;">Alle Produkte ausschließlich für Laborforschungszwecke.<br>Nicht für den menschlichen oder veterinärmedizinischen Gebrauch.</div><div style="font-size:11px;color:#7D848D;margin-top:12px;line-height:1.6;">Angebot gilt solange der Vorrat reicht, nicht für Pens, Zubehör und Vorbestellungen.<br>Du bekommst diese Mail, weil du den Peptrium-Newsletter abonniert hast. <br><a href="https://peptrium.com/impressum/" style="color:#7D848D;">Impressum</a> · <a href="#" style="color:#7D848D;">Abmelden</a></div></td></tr></table></td></tr></table></body></html>

diff --git a/drafts/halloween-2026-10-22/mails/gen.py b/drafts/halloween-2026-10-22/mails/gen.py
@@ -1,4 +1,5 @@
-# Halloween-Newsletter (Entwurf 2026-10-22): teaser (Mi 28.10.), early (Do 29.10. 18 Uhr), letzte (Sa 31.10.)
+# Halloween-Newsletter (v2 2026-10-23): teaser (Mi 28.10.), early (Do 29.10. 18 Uhr), letzte (So 1.11. ~11 Uhr)
+# v2: keine Streichpreise (PAngV), 'Heute 23:59', Vorkasse-Hinweis, Impressum-Link, Geraete-Hinweis deutlicher, Betreffzeilen in SUBJ
 # python3 gen.py <ea-token> -> <name>.body (Omnisend htmlCode, [[unsubscribe_link]]) + vorschau-<name>.html
 import sys
 F = "-apple-system,BlinkMacSystemFont,'Segoe UI',Inter,Helvetica,Arial,sans-serif"
@@ -27,7 +28,7 @@ def prods(c):
     p = lambda img, n, was, now, u: (f'<tr><td style="padding:6px 0;"><table role="presentation" width="100%" cellpadding="0" cellspacing="0" style="border-collapse:separate;background:{CARD};border:1px solid {BD};border-radius:14px;overflow:hidden;"><tr>'
         f'<td width="92" style="width:92px;padding:0;line-height:0;"><a href="{u}"><img src="{img}" width="92" alt="" style="display:block;width:92px;height:92px;border:0;"></a></td>'
         f'<td style="padding:10px 12px;font-family:{F};"><div style="font-size:15px;font-weight:800;color:#fff;">{n}</div>'
-        f'<div style="font-size:13px;color:{MU};margin-top:3px;">3 Flaschen: <s style="white-space:nowrap;">{was}</s> <b style="color:{OR2};font-size:15px;white-space:nowrap;">{now}</b></div></td>'
+        f'<div style="font-size:13px;color:{MU};margin-top:3px;">3 Flaschen – du zahlst nur 2</div><div style="font-size:16px;font-weight:800;color:{OR2};margin-top:2px;white-space:nowrap;">{now}</div></td>'
         f'<td width="44" style="width:44px;padding-right:12px;"><a href="{u}" style="display:block;width:36px;height:36px;line-height:36px;border-radius:50%;background:#fff;color:#0D0F12;text-align:center;font-weight:800;text-decoration:none;font-size:18px;">&rarr;</a></td>'
         '</tr></table></td></tr>')
     return ('<table role="presentation" width="100%" cellpadding="0" cellspacing="0">'
@@ -37,11 +38,12 @@ def prods(c):
 def foot():
     return (f'<div style="height:1px;background:#2C3138;margin:0 0 22px;"></div>' + logo()
             + f'<div style="font-size:11px;color:#7D848D;margin-top:12px;line-height:1.6;">Alle Produkte ausschließlich für Laborforschungszwecke.<br>Nicht für den menschlichen oder veterinärmedizinischen Gebrauch.</div>'
-            + f'<div style="font-size:11px;color:#7D848D;margin-top:12px;line-height:1.6;">Angebot gilt solange der Vorrat reicht, nicht für Pens, Zubehör und Vorbestellungen.<br>Du bekommst diese Mail, weil du den Peptrium-Newsletter abonniert hast. <a href="[[unsubscribe_link]]" style="color:#7D848D;">Abmelden</a></div>')
+            + f'<div style="font-size:11px;color:#7D848D;margin-top:12px;line-height:1.6;">Angebot gilt solange der Vorrat reicht, nicht für Pens, Zubehör und Vorbestellungen.<br>Du bekommst diese Mail, weil du den Peptrium-Newsletter abonniert hast. <br><a href="https://peptrium.com/impressum/" style="color:#7D848D;">Impressum</a> · <a href="[[unsubscribe_link]]" style="color:#7D848D;">Abmelden</a></div>')
 def wrap(rows):
     return (f'<table role="presentation" width="100%" cellpadding="0" cellspacing="0" style="background:{BG};"><tr><td align="center" style="padding:0;">'
             f'<table role="presentation" width="100%" cellpadding="0" cellspacing="0" style="max-width:600px;background:{BG};">' + rows
             + row(foot(), '8px 22px 30px', bg='#12151A', align='center') + '</table></td></tr></table>')
+def vk(): return box(f'<div style="font-size:14px;color:#E6E8EB;line-height:1.5;">💳 <b>Per Vorkasse?</b> <span style="color:{MU};">Kein Stress – es zählt deine Bestellung, nicht der Zahlungseingang. Der Aktionspreis bleibt dir.</span></div>', bd=BD, bg=CARD)
 def timeline(active):
     items = [('Do 29.10. · 18 Uhr', 'Early Access – nur für dich'), ('Fr 30.10. · 0 Uhr', 'Start für alle'), ('So 1.11. · 23:59', 'Ende – solange der Vorrat reicht')]
     out = '<table role="presentation" width="100%" cellpadding="0" cellspacing="0">'
@@ -66,24 +68,32 @@ def early():
     return wrap(row(logo(), '26px 20px 6px', align='center') + hero(link)
         + row(pill('🎃 EARLY ACCESS · JETZT FREIGESCHALTET') + h1('Du bist drin.', 'Jede 3. Flasche gratis.', 'Für alle anderen startet es erst um Mitternacht. Tippe auf den Button – damit wird das Angebot auf deinem Gerät freigeschaltet.'), '22px 22px 6px')
         + row(btn('Early Access öffnen', link), '18px 22px 6px')
-        + row(f'<div style="font-size:12px;color:{MU};text-align:center;line-height:1.5;">Öffne den Link auf dem Gerät, mit dem du bestellst.</div>', '4px 22px 6px', align='center')
-        + row(f'<div style="font-size:11px;font-weight:800;letter-spacing:.18em;color:{LT};margin-bottom:6px;">SO VIEL SPARST DU</div>' + prods(c), '18px 16px 4px')
+        + row(box(f'<div style="font-size:14px;color:#FFE7CC;line-height:1.5;">📱 <b>Wichtig:</b> Öffne den Link auf dem Gerät, mit dem du bestellst – nur dort ist das Angebot freigeschaltet.</div>'), '12px 16px 6px')
+        + row(f'<div style="font-size:11px;font-weight:800;letter-spacing:.18em;color:{LT};margin-bottom:6px;">DEIN PREIS FÜR 3 FLASCHEN</div>' + prods(c), '18px 16px 4px')
         + row(f'<div style="font-size:11px;font-weight:800;letter-spacing:.18em;color:{LT};margin-bottom:4px;">SO FUNKTIONIERT’S</div>' + steps(), '18px 22px 4px')
         + row(box(f'<div style="font-size:14px;color:#FFE7CC;line-height:1.5;">⏳ <b>Nur solange der Vorrat reicht.</b> Ab Freitag kaufen alle anderen mit – sicher dir deine Flaschen jetzt.</div>'), '14px 16px 4px')
+        + row(vk(), '10px 16px 4px')
         + row(btn('Jetzt Flaschen wählen', link), '18px 22px 26px'))
 
 def letzte():
     c = 'halloween-letzte'
     return wrap(row(logo(), '26px 20px 6px', align='center') + hero(utm('/alle-produkte/', c))
-        + row(pill('🎃 LETZTE CHANCE') + h1('Nur noch bis', 'Sonntag, 23:59.', 'Danach ist das Halloween-Special vorbei – und jede Flasche kostet wieder den normalen Preis.'), '22px 22px 6px')
+        + row(pill('🎃 LETZTE CHANCE') + h1('Heute um 23:59', 'ist Schluss.', 'Danach ist das Halloween-Special vorbei – und jede Flasche kostet wieder den normalen Preis.'), '22px 22px 6px')
         + row(box(f'<table role="presentation" width="100%" cellpadding="0" cellspacing="0"><tr><td style="font-family:{F};text-align:center;padding:4px 0;">'
-                  f'<div style="font-size:11px;font-weight:800;letter-spacing:.18em;color:{OR2};">ENDET IN</div>'
-                  f'<div style="font-size:40px;font-weight:800;color:#fff;margin-top:6px;letter-spacing:-.02em;">ca. 1 Tag</div>'
-                  f'<div style="font-size:13px;color:{MU};margin-top:4px;">So 1.11. um 23:59 Uhr · solange der Vorrat reicht</div></td></tr></table>'), '18px 16px 4px')
+                  f'<div style="font-size:11px;font-weight:800;letter-spacing:.18em;color:{OR2};">ENDET HEUTE</div>'
+                  f'<div style="font-size:40px;font-weight:800;color:#fff;margin-top:6px;letter-spacing:-.02em;">23:59 Uhr</div>'
+                  f'<div style="font-size:13px;color:{MU};margin-top:4px;">Sonntag, 1.11. · solange der Vorrat reicht</div></td></tr></table>'), '18px 16px 4px')
         + row(btn('Jetzt Flaschen wählen', utm('/alle-produkte/', c)), '18px 22px 6px')
         + row(f'<div style="font-size:11px;font-weight:800;letter-spacing:.18em;color:{LT};margin-bottom:6px;">DIE BELIEBTESTEN</div>' + prods(c), '18px 16px 4px')
         + row(f'<div style="font-size:14px;color:{MU};line-height:1.55;">Jede 3. Flasche ist gratis – die günstigste im Warenkorb, auch gemischt. Kein Code nötig.</div>', '14px 22px 4px')
+        + row(vk(), '12px 16px 4px')
         + row(btn('Zum Shop', utm('/alle-produkte/', c)), '18px 22px 26px'))
+
+SUBJ = {
+    'teaser': ('Morgen 18 Uhr: du bist früher dran 🎃', 'Jede 3. Flasche geht aufs Haus.'),
+    'early': ('Du bist drin 🎃', 'Für alle anderen erst ab Mitternacht.'),
+    'letzte': ('Heute um Mitternacht ist Schluss', 'Danach wieder volle Preise.'),
+}
 
 if __name__ == '__main__':
     for name, fn in [('teaser', teaser), ('early', early), ('letzte', letzte)]:
